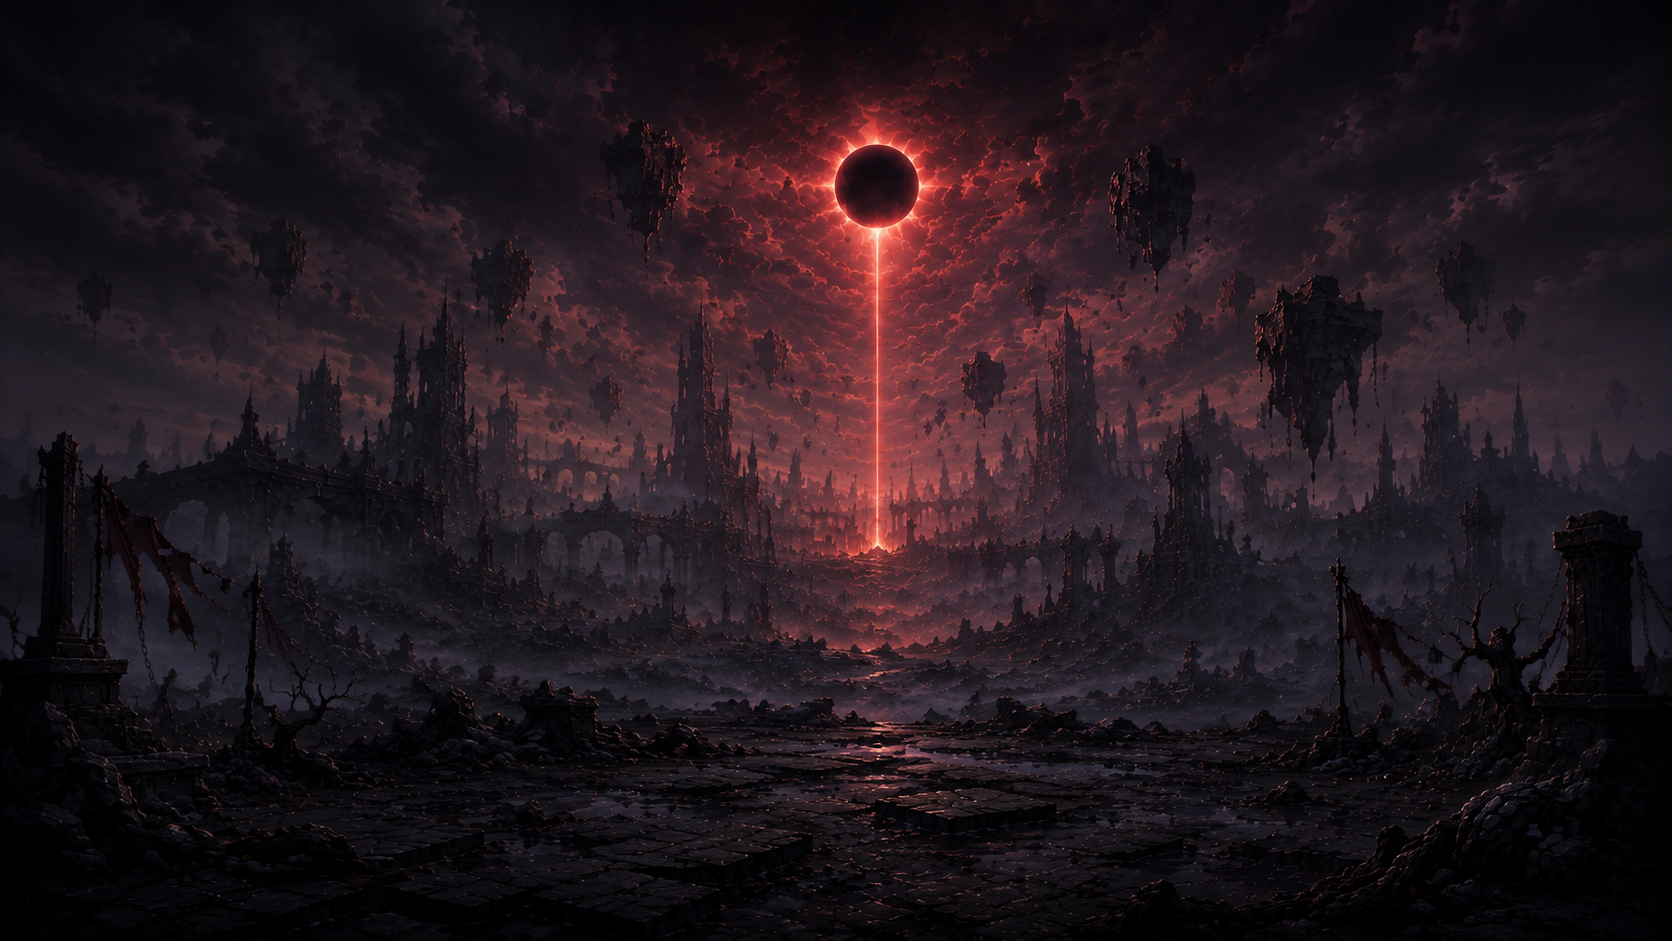
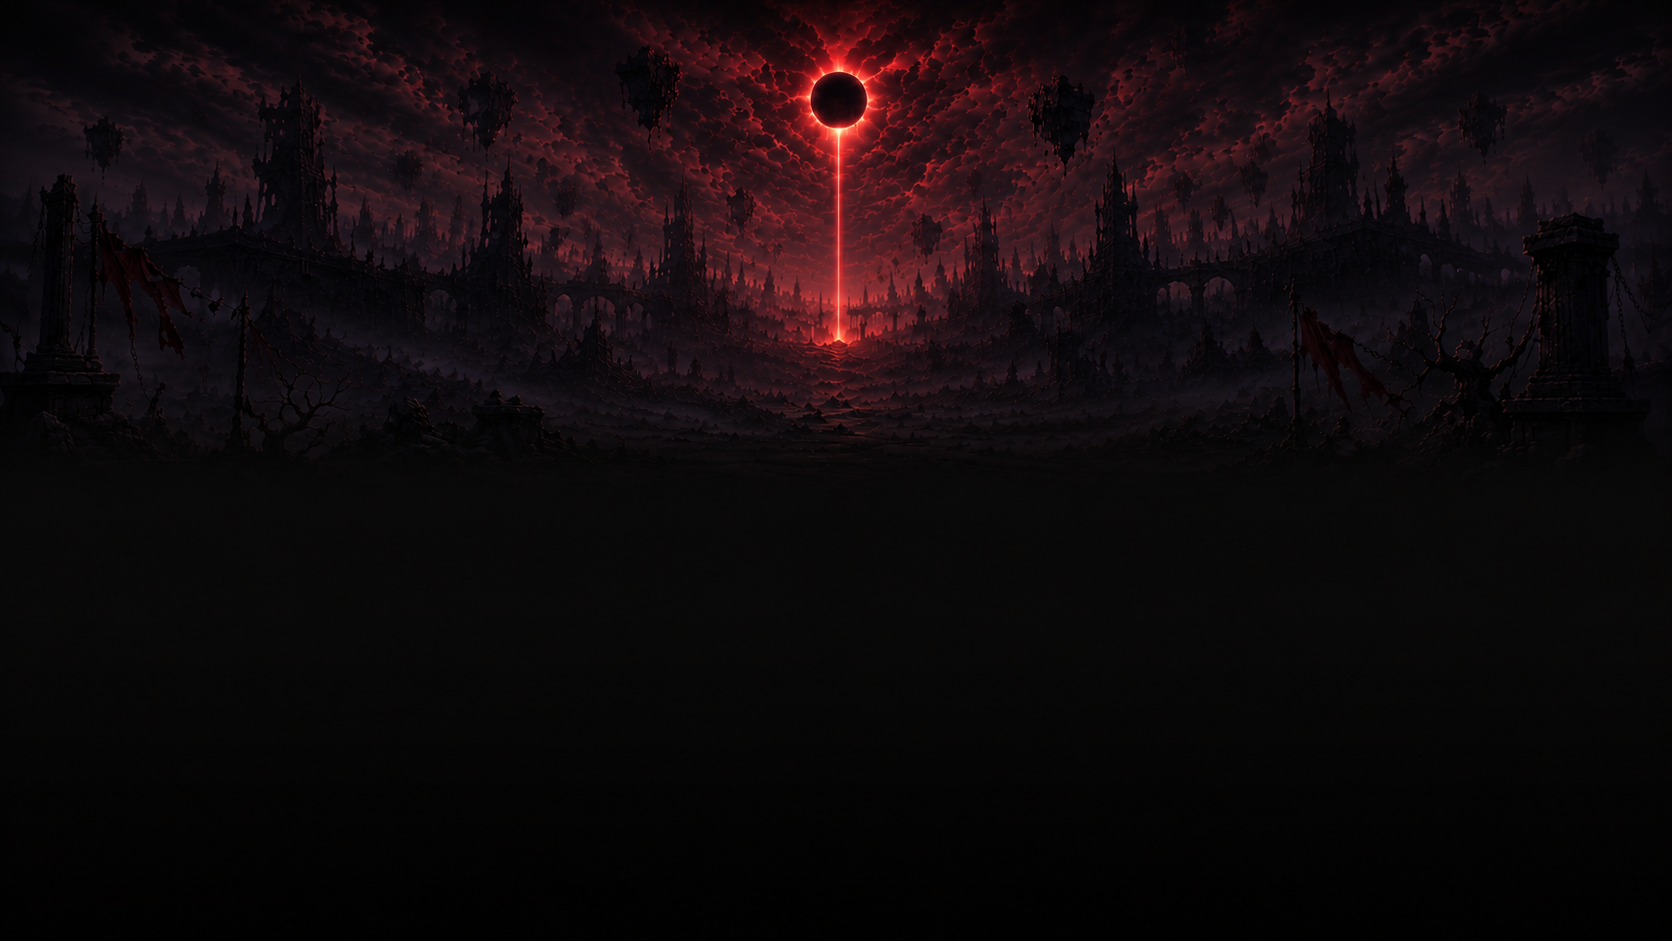
v2 Build 69: new eclipse-ruins fight backdrop
Swap the fight background for the eclipse-over-ruins art. It's
composed dark (eclipse + ruins up top, black floor below), so the
scrim is lightened to let the art show through while the topbar and
hand area stay readable.

Claude-Session: https://claude.ai/code/session_01HVC1CsNs8KGkEP8oKPSikp

diff --git a/v2/styles.css b/v2/styles.css
@@ -58,16 +58,17 @@ body {
 /* ---- fight backdrop ---- */
 #fight-bg {
   position: absolute; inset: 0; z-index: 0; pointer-events: none;
-  background: url('../art/bg-descent.png') center 32% / cover no-repeat;
+  background: url('../art/bg-descent.png') center 42% / cover no-repeat;
   opacity: 0; transition: opacity 0.6s ease;
 }
 #stage.show-bg #fight-bg { opacity: 1; }
-/* a dark scrim + vignette keeps the figures and UI readable over the art */
+/* the art is already dark-composed (eclipse up top, black floor below), so the
+   scrim stays light — just enough to seat the topbar and blend the hand area */
 #fight-bg::after {
   content: ''; position: absolute; inset: 0;
   background:
-    linear-gradient(180deg, rgba(8,5,6,0.74) 0%, rgba(10,6,8,0.5) 42%, rgba(6,4,5,0.9) 100%),
-    radial-gradient(ellipse 82% 62% at 50% 42%, transparent 42%, rgba(6,4,5,0.62) 100%);
+    linear-gradient(180deg, rgba(8,5,6,0.5) 0%, rgba(10,6,8,0.24) 34%, rgba(8,5,6,0.5) 70%, rgba(4,3,4,0.92) 100%),
+    radial-gradient(ellipse 92% 70% at 50% 40%, transparent 48%, rgba(6,4,5,0.5) 100%);
 }
 /* lift the actual game layers above the backdrop */
 #topbar, #narrator, #battlefield, #action-bar { position: relative; z-index: 1; }

diff --git a/v2/index.html b/v2/index.html
@@ -6,7 +6,7 @@
   <meta name="theme-color" content="#0d0a08" />
   <title>KIZUNA v2 | Threads</title>
   <link rel="icon" href="data:," />
-  <link rel="stylesheet" href="styles.css?v=68" />
+  <link rel="stylesheet" href="styles.css?v=69" />
 </head>
 <body>
 
@@ -30,7 +30,7 @@
         <div id="resonance" class="hidden"></div>
         <div id="timeline"></div>
         <button id="menu-btn" aria-label="Menu" title="Menu">☰</button>
-        <div id="build-stamp">V2 BUILD 68</div>
+        <div id="build-stamp">V2 BUILD 69</div>
       </header>
       <div id="narrator"></div>
 
@@ -70,6 +70,6 @@
   </div>
 
   <script src="portraits.js?v=2"></script>
-  <script src="game.js?v=68"></script>
+  <script src="game.js?v=69"></script>
 </body>
 </html>

diff --git a/v2/game.js b/v2/game.js
@@ -21,7 +21,7 @@
 
 'use strict';
 
-const V2_BUILD = 68;
+const V2_BUILD = 69;
 const $ = (sel) => document.querySelector(sel);
 
 // ---------------------------------------------------------------------------
